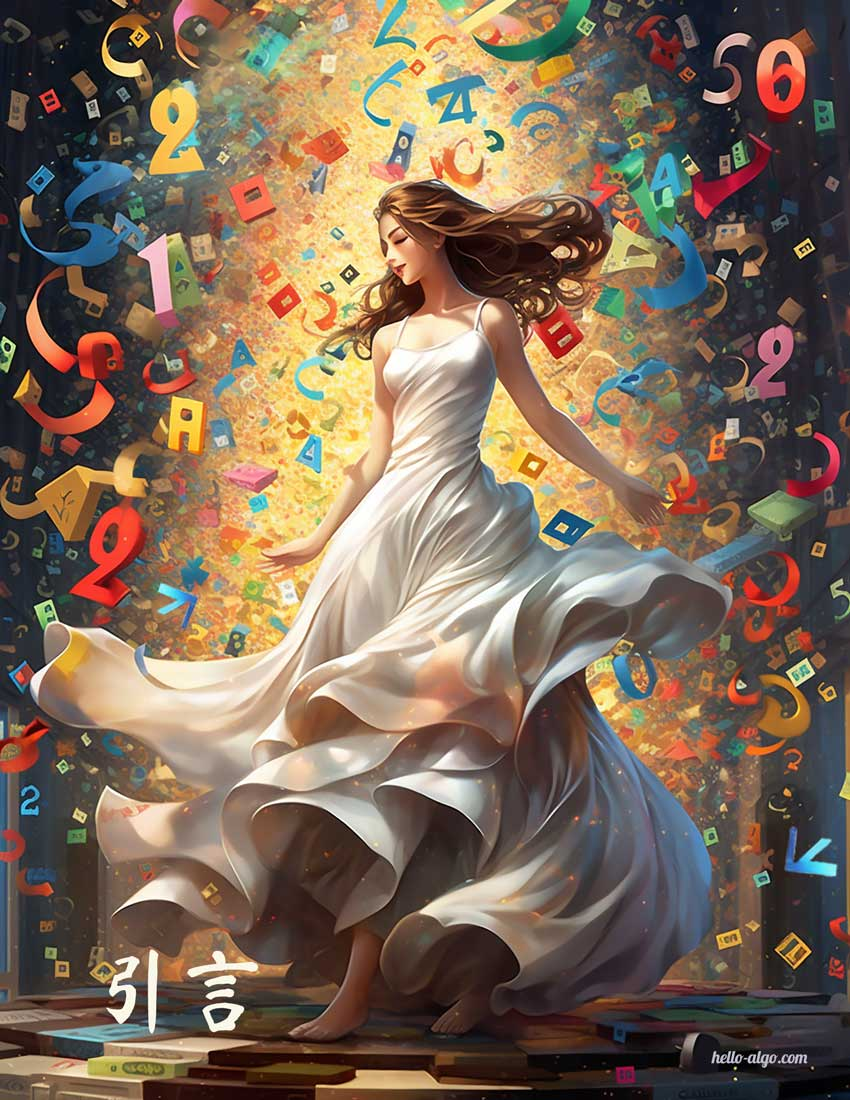
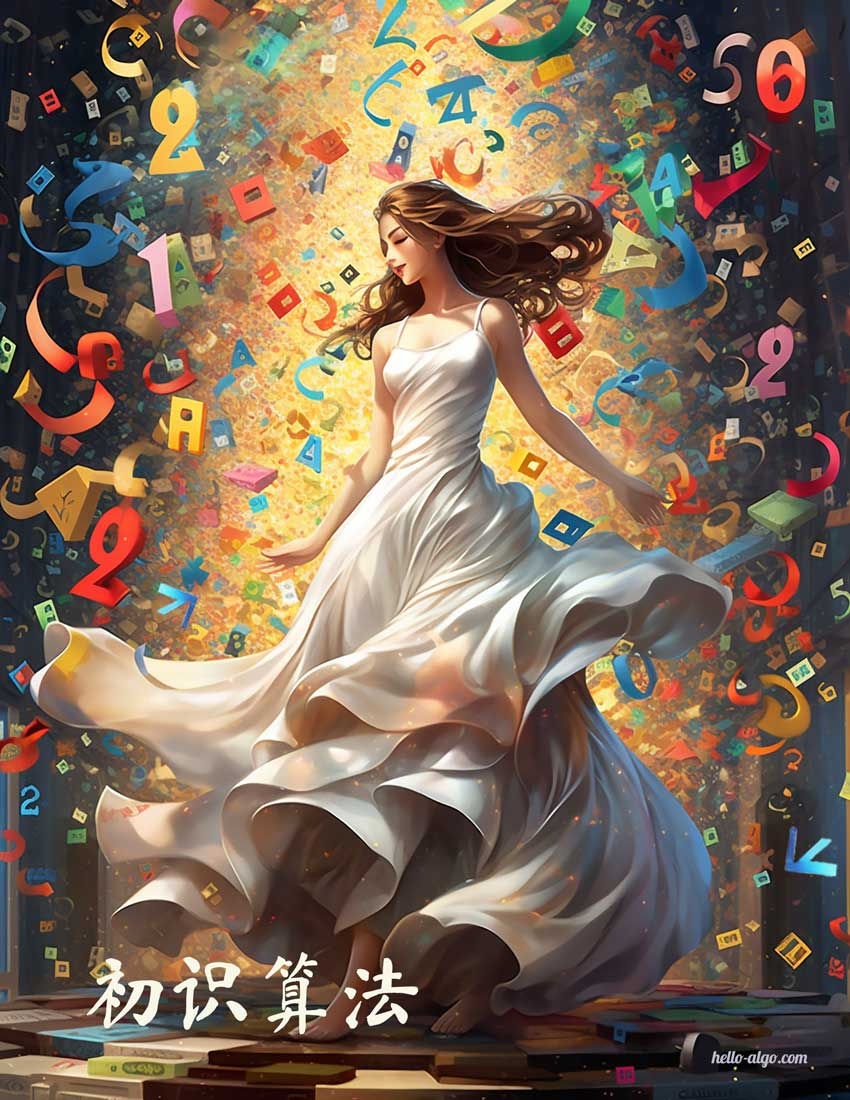
Modify the chapter names. Fix the definition of algorithm. Update the buttons in the landing page.

Changed region(s): [[0.0918, 0.8655, 0.4894, 0.9582]]

diff --git a/docs/chapter_introduction/what_is_dsa.md b/docs/chapter_introduction/what_is_dsa.md
@@ -4,9 +4,9 @@
 
 「算法 Algorithm」是在有限时间内解决特定问题的一组指令或操作步骤。算法具有以下特性：
 
-- 问题是明确的，具有清晰的输入和输出定义。
-- 解具有确定性，即给定相同的输入时，输出始终相同。
-- 具有可行性，在有限步骤、时间和内存空间下可完成。
+- 问题是明确的，包含清晰的输入和输出定义。
+- 具有可行性，能够在有限步骤、时间和内存空间下完成。
+- 各步骤都有确定的含义，相同的输入和运行条件下，输出始终相同。
 
 ## 数据结构定义
 
@@ -14,7 +14,7 @@
 
 - 空间占用尽量减少，节省计算机内存。
 - 数据操作尽可能快速，涵盖数据访问、添加、删除、更新等。
-- 提供简洁的数据表示和逻辑信息，以利于算法高效运行。
+- 提供简洁的数据表示和逻辑信息，以便使得算法高效运行。
 
 数据结构设计是一个充满权衡的过程，这意味着要在某方面取得优势，往往需要在另一方面作出妥协。例如，链表相较于数组，在数据添加和删除操作上更加便捷，但牺牲了数据访问速度；图相较于链表，提供了更丰富的逻辑信息，但需要占用更大的内存空间。
 

diff --git a/docs/index.md b/docs/index.md
@@ -17,12 +17,11 @@ hide:
 
 <p align="center">
   <a href="https://github.com/krahets/hello-algo">
-    <img src="index.assets/btn_download_code_light.png#only-light" width="140">
-    <img src="index.assets/btn_download_code_dark.png#only-dark" width="140">
+    <img alt="GitHub Repo stars" src="https://img.shields.io/github/stars/krahets/hello-algo?style=social&link=https%3A%2F%2Fgithub.com%2Fkrahets%2Fhello-algo">
   </a>
-  <a href="https://github.com/krahets/hello-algo/releases">
-    <img src="index.assets/btn_download_pdf_light.png#only-light" width="140">
-    <img src="index.assets/btn_download_pdf_dark.png#only-dark" width="140">
+  &nbsp;
+  <a href="https://github.com/krahets/hello-algo">
+    <img alt="GitHub contributors" src="https://img.shields.io/github/contributors-anon/krahets/hello-algo?style=social&logo=handshake&logoColor=%23101010">
   </a>
 </p>
 

diff --git a/docs/chapter_introduction/index.md b/docs/chapter_introduction/index.md
@@ -1,7 +1,7 @@
-# 引言
+# 初识算法
 
 <div class="center-table" markdown>
 
-![引言](../assets/covers/chapter_introduction.jpg){ width="70%" }
+![初识算法](../assets/covers/chapter_introduction.jpg){ width="70%" }
 
 </div>

diff --git a/docs/chapter_preface/index.md b/docs/chapter_preface/index.md
@@ -1,7 +1,7 @@
-# 写在前面
+# 前言
 
 <div class="center-table" markdown>
 
-![写在前面](../assets/covers/chapter_preface.jpg){ width="70%" }
+![前言](../assets/covers/chapter_preface.jpg){ width="70%" }
 
 </div>
